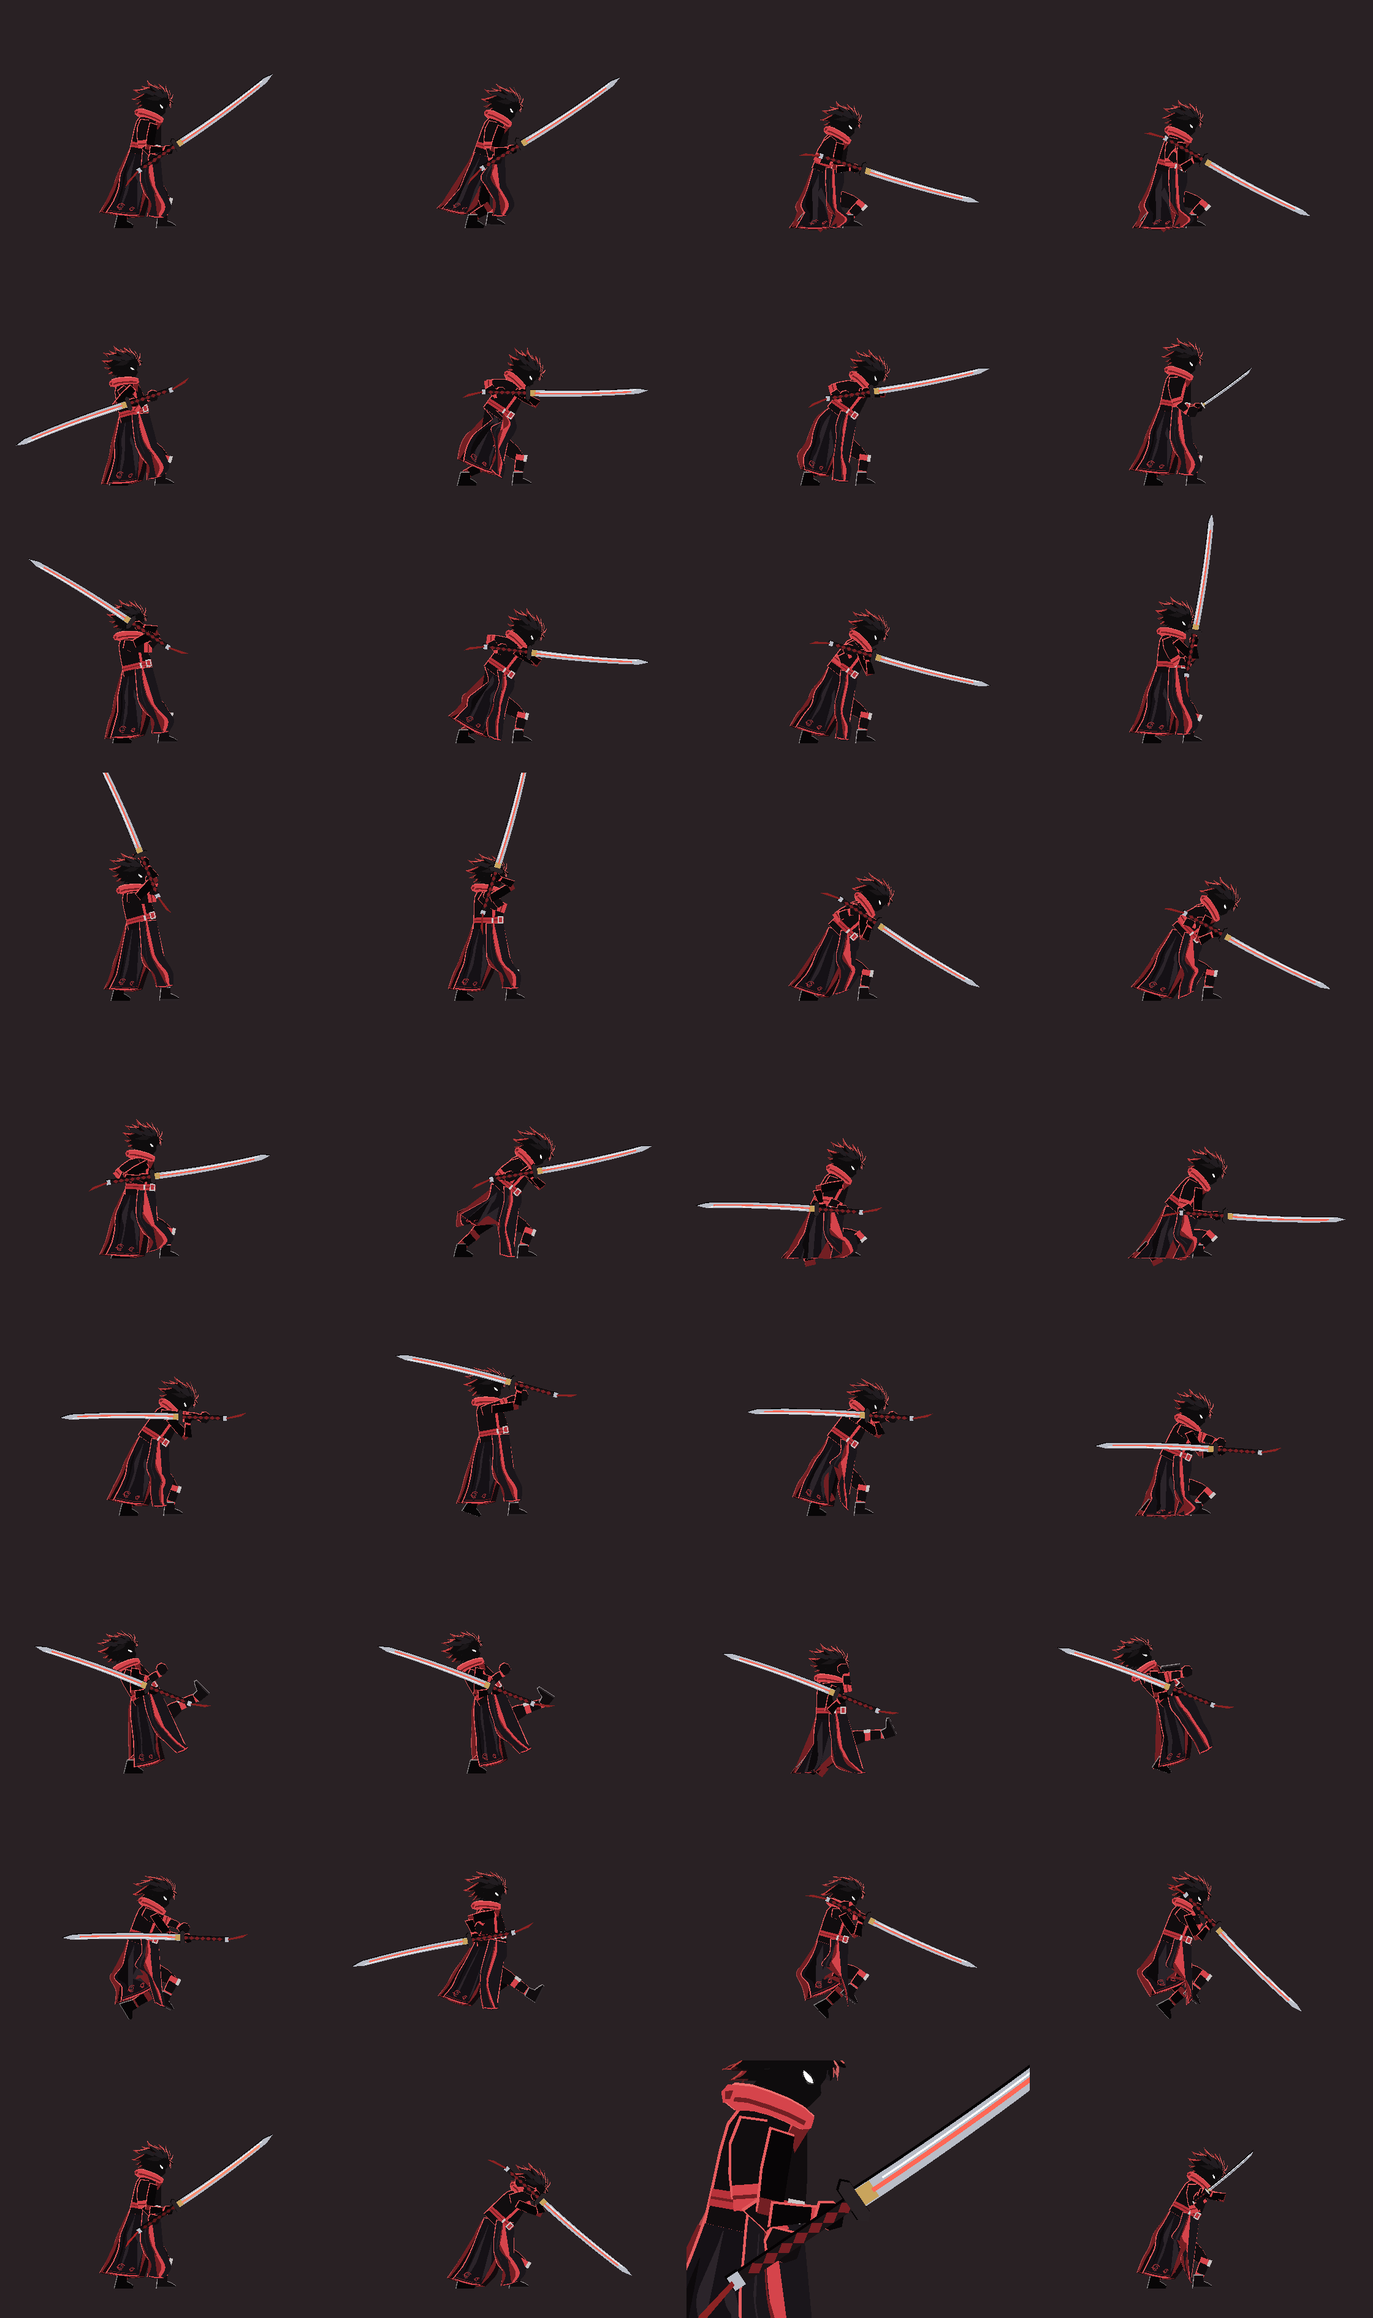
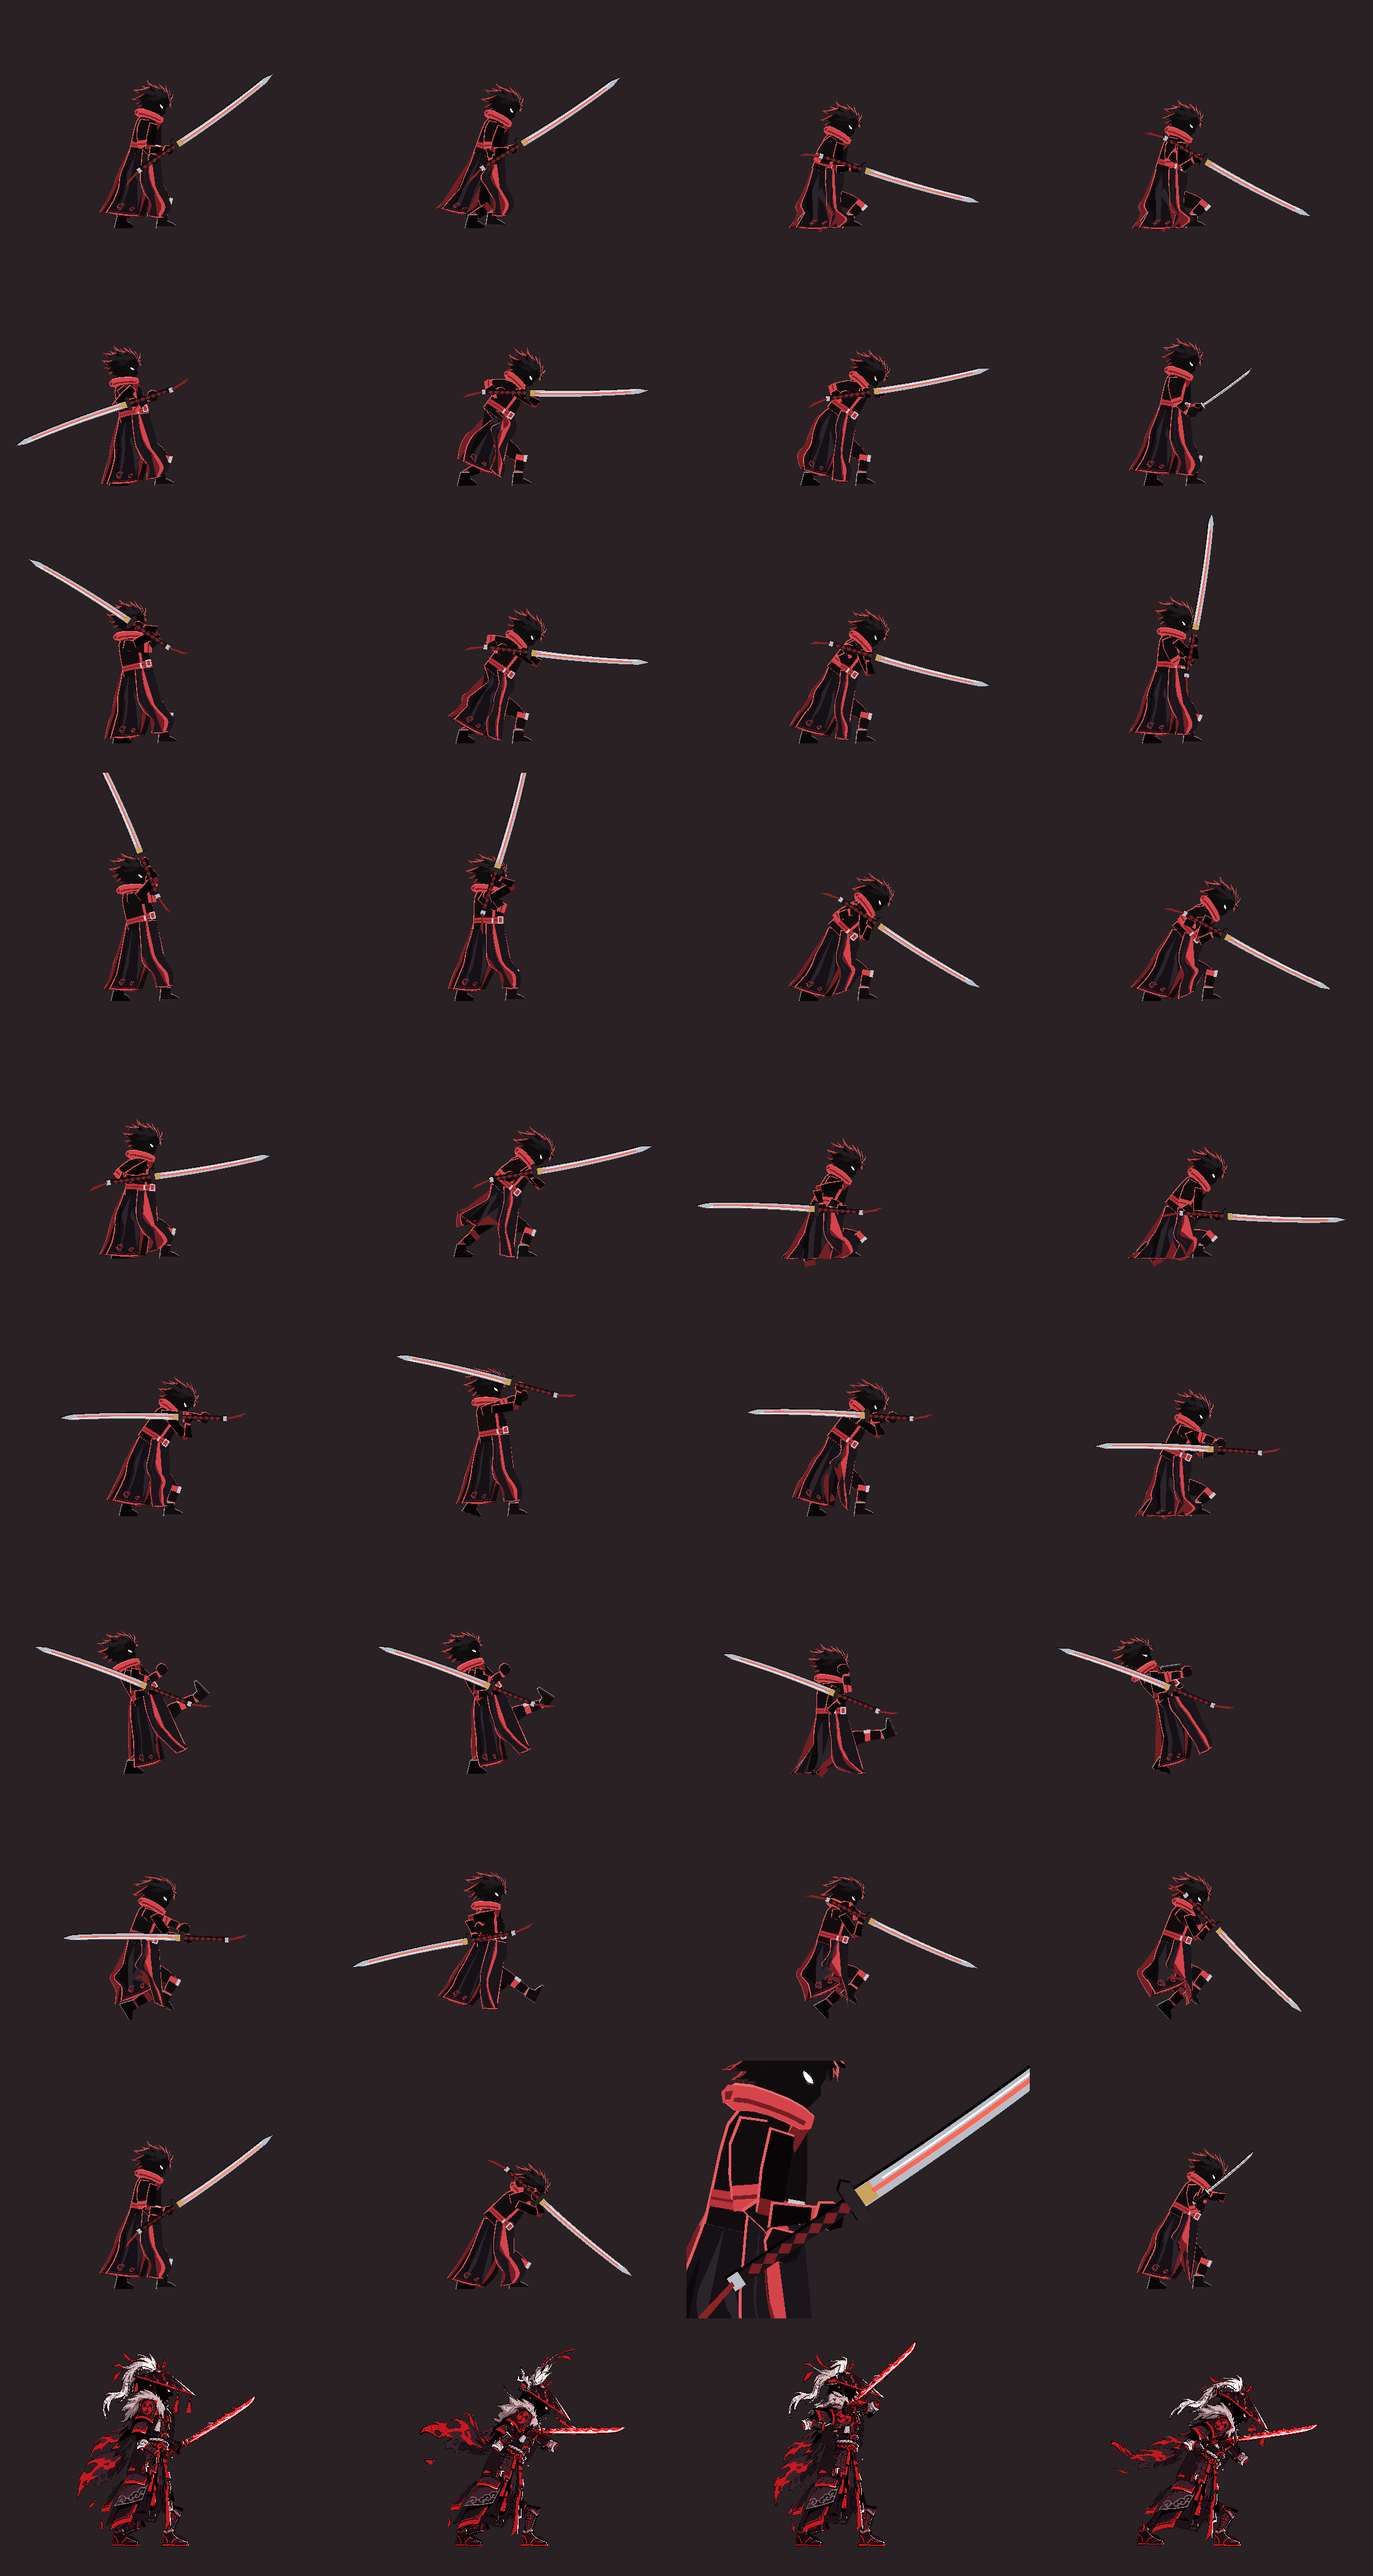
SAN-81: Raikon keeps his painted tachi on the tachi family; test and review tiles

diff --git a/Assets/Kage/Tests/PlayMode/TachiScreenshots.cs b/Assets/Kage/Tests/PlayMode/TachiScreenshots.cs
@@ -1,4 +1,5 @@
 using System;
+using System.Linq;
 using System.IO;
 using NUnit.Framework;
 using UnityEngine;
@@ -101,6 +102,14 @@ namespace Kage.Tests
                 },
             };
 
+            rows = rows.Append(new (string, Func<Color32[]>)[]
+            {
+                ("raikon_idle_with_tachi_set", () => RaikonMove(null, 40)),
+                ("raikon_cut1_f13", () => RaikonMove(s => s.cut1, 13)),
+                ("raikon_overhead_f20", () => RaikonMove(s => s.overhead, 20)),
+                ("raikon_thrust_f17", () => RaikonMove(s => s.thrust, 17)),
+            }).ToArray();
+
             var sheet = new Texture2D(W * Cols, H * rows.Length, TextureFormat.RGBA32, false);
             for (int r = 0; r < rows.Length; r++)
                 for (int c = 0; c < rows[r].Length; c++)
@@ -113,6 +122,25 @@ namespace Kage.Tests
             sheet.Apply();
             File.WriteAllBytes(Path.Combine(Root, "san81_sheet.png"), sheet.EncodeToPNG());
             UnityEngine.Object.DestroyImmediate(sheet);
+        }
+
+        /// <summary>Raikon (a Ronin slot, facing left) in his idle or in a tachi move; the image is mirrored back so he faces right like the others.</summary>
+        static Color32[] RaikonMove(Pick pick, int frame)
+        {
+            using var f = new HeadlessFight(KageMoveScenarios.Seed, Foe.Scripted, -3.5f, 0.6f, 0f, foeDef: CharacterCatalog.Get("raikon"));
+            f.RoninInput.Add(600);
+            f.Run(2);
+            var r = f.Ronin;
+            if (pick == null) f.Run(frame);
+            else
+            {
+                var m = pick((TachiMoves)r.moves);
+                r.StartMove(m);
+                f.RunUntil(() => r.state == FState.Attack && r.move == m && r.moveFrame >= frame, 80);
+            }
+            var px = Render(new Vector2(r.Pos.x - 0.35f, Mathf.Max(1.25f, r.rig.Bone(B.Hips).position.y + 0.4f)), Half);
+            for (int y = 0; y < H; y++) System.Array.Reverse(px, y * W, W);
+            return px;
         }
 
         static Color32[] KatanaIai(int frame)

diff --git a/Assets/Kage/Tests/PlayMode/TachiFamilyFightTests.cs b/Assets/Kage/Tests/PlayMode/TachiFamilyFightTests.cs
@@ -306,6 +306,28 @@ namespace Kage.Tests
             Assert.Greater(f.Kage.rig.World(B.Sword, f.Kage.BladeTipLocal).y, -0.04f);
         }
 
+        // ---- Raikon (SAN-71) wields the family and keeps his painted tachi ----
+
+        [Test]
+        public void Raikon_fights_with_the_tachi_family_and_keeps_his_own_painted_tachi()
+        {
+            var def = CharacterCatalog.Get("raikon");
+            Assert.AreEqual("tachi", def.family);
+            var f = new HeadlessFight(KageMoveScenarios.Seed, Foe.Scripted, -0.37f, 0.37f, 0f, foeDef: def);
+            _fights.Add(f);
+            f.RoninInput.Add(600);
+            f.Run(3);
+            var r = f.Ronin;
+            Assert.AreEqual("raikon_tachi", r.WeaponId);
+            Assert.AreEqual("tachi", r.Family.id, "no 'no registered family' fallback to the katana");
+            Assert.IsInstanceOf<TachiMoves>(r.moves);
+            Assert.AreEqual(0, r.rig.FamilyPartCount, "his painted Tachi_Hilt / Tachi_Blade stay; the family adds no blade of its own");
+            Assert.IsTrue(r.rig.HasOwnPart("Tachi_Blade"));
+            Assert.IsFalse(r.rig.BaseSwordHidden);
+            Assert.AreEqual(TachiMoves.BladeLength * r.Weapon.reach, r.BladeReach, 1e-3f, "the family's blade length drives his Blade hit points");
+            Debug.Log($"Raikon: hit line {r.BladeReach:0.00} m, painted blade {(r.def.bladeTipLocal - r.def.bladeBaseLocal).magnitude:0.00} m, body scale {r.Character.bodyScale:0.00}");
+        }
+
         // ---- slow and heavy ----
 
         [Test]

diff --git a/Assets/Kage/Scripts/Combat/Families/TachiVisual.cs b/Assets/Kage/Scripts/Combat/Families/TachiVisual.cs
@@ -6,7 +6,8 @@ namespace Kage
     /// <summary>
     /// Draws the heavy tachi on the Sword bone in place of the part set's katana (SAN-81): a long wrapped hilt with a
     /// round guard and a red cord, and a broad odachi blade with a slight curve and a glowing red groove down it
-    /// (Raikō no Tachi: "the red groove drinks lightning"). Raikon's own copy (<c>raikon_tachi</c>) burns brighter.
+    /// (Raikō no Tachi: "the red groove drinks lightning"). A rig that paints its own tachi (Raikon's part set) keeps it:
+    /// nothing is added. Another rig carrying <c>raikon_tachi</c> gets the same blade with a brighter groove.
     /// Axis frame: x along the hilt from the lead hand; the blade runs from the guard (0.08, 0) along the same line
     /// the hit points follow (the katana's blade direction, <see cref="Fighter.BladeTipLocal"/>) and ends at the family's blade length.
     /// </summary>
@@ -39,6 +40,8 @@ namespace Kage
         public void Attach(FighterRig rig, string weaponId)
         {
             rig.ClearFamilyParts();                  // idempotent: never add the parts twice
+            // a character whose part set already paints its own tachi (Raikon, SAN-71) keeps it: draw nothing
+            if (rig.HasOwnPart("Tachi_Blade")) { rig.SetSwordAlwaysFront(false); return; }
             rig.SetBaseSwordHidden(true);
             rig.SetSwordAlwaysFront(true);
             var look = LookOf(weaponId);

diff --git a/Assets/Kage/Scripts/Character/FighterRig.cs b/Assets/Kage/Scripts/Character/FighterRig.cs
@@ -386,6 +386,14 @@ namespace Kage
         }
 
         public int FamilyPartCount => _familyParts.Count;
+
+        /// <summary>True when the character's own part set draws a part with this name (not one a weapon family added).</summary>
+        public bool HasOwnPart(string partName)
+        {
+            foreach (var p in _parts)
+                if (!p.family && p.def.name == partName) return true;
+            return false;
+        }
         public bool BaseSwordHidden => _baseSwordHidden;
 
         /// <summary>

diff --git a/docs/adr/0006-weapon-family-contract.md b/docs/adr/0006-weapon-family-contract.md
@@ -182,6 +182,7 @@ With every multiplier at 1 and defence 0 this is exactly today's damage (`RoundT
 - **Posture:** `postureMul` is 1.6 (Earthsplit) to 3.0 (Thunder Fall) on the blade windows, 1.0 on hilts and kicks. For comparison the cleaver tops at 1.8 and the fists at 1.4. `WeaponFamilyTests.The_tachi_has_the_highest_posture_multiplier_of_every_registered_family` compares the top window of every registered family and the mean of the blade windows, so a family that lands later joins the comparison; a family that wants more than ×3.0 raises the tachi first.
 - **Upgrades:** `raiko_no_tachi` is the reference of its family, so `WeaponStats.Combat` is ×1 at level 1, and `GameRules.MaxLevel` is 1 for boss weapons, so Shift+F8 keeps it at level 1 (tested). `raikon_tachi` keeps ×0.78 damage (the thrust hits for 17 against the player's 22).
 - **Grip and floor:** the hit line is the katana's blade direction (the drawing follows it), from the guard to 1.5 m. `WeaponFamilyDef.keepPointOffFloor` (new, default false; the tachi sets it) makes `Fighter.ApplyGrip` lift a point that would dig into the floor, as it does for the polearm: a low guard or a sweep drags the long blade along the floor instead of through it. The cleaver and the katana are unchanged.
-- **Boss abilities:** `TachiMoves.AddAbility(id, move)` fills `Ability(id)` (and `All`, so the move lands in the bag test). SAN-107 builds Raikon's `thunderSwing`, `stormBreak`, `skyfall` and `redlineCounter` moves from the poses in this file and registers them. The family's visual draws the tachi for any rig; if Raikon's own part set (SAN-71) draws his blade, it should call `SetBaseSwordHidden(false)` or skip the family visual for him.
+- **Boss abilities:** `TachiMoves.AddAbility(id, move)` fills `Ability(id)` (and `All`, so the move lands in the bag test). SAN-107 builds Raikon's `thunderSwing`, `stormBreak`, `skyfall` and `redlineCounter` moves from the poses in this file and registers them. 
+- **Raikon (SAN-71):** his character data has `family = tachi` and weapon `raikon_tachi`, so he picks up the set (tested). His part set paints its own tachi (`Tachi_Hilt`, `Tachi_Blade`, `Tachi_Grip` on the Sword bone), so `TachiVisual.Attach` adds nothing when `FighterRig.HasOwnPart("Tachi_Blade")` (new), and his painted blade stays. **Known mismatch, for SAN-107 or an art pass:** his Blade hit points now follow the family (1.5 m × 1.11 reach for `raikon_tachi` = 1.67 m in Sword-bone units, about 2.07 m in the world at his build scale 1.24), but his painted tachi is only 0.72 m long in those units (a little longer than Kagetsu once scaled). So his hits land about twice as far out as the blade is drawn. Either stretch his painted tachi to the family length, or give his data a blade-length override (a `CharacterDef` field read by `SetBlade`); until then his reach is not tuned. The review tiles `raikon_*` in `Screenshots/review/SAN-81/san81_tiles/` show the painted tachi in the cut, overhead and thrust.
 - Dev arena: Raikō no Tachi is a boss-tier player weapon that dev mode owns, so F8 now cycles fists, Tsubame, Kagetsu, Onikiri, Mizuchi, Iwakudaki, Shizuka, Shinsen, Raikō no Tachi, Kagehira & Yūrei, Mugen no Ha (JS table order).
 - Review images: `Screenshots/review/SAN-81/san81_sheet.png` (from `TachiScreenshots`; run it without `-nographics`) and its tiles, with Kage's katana for scale.
